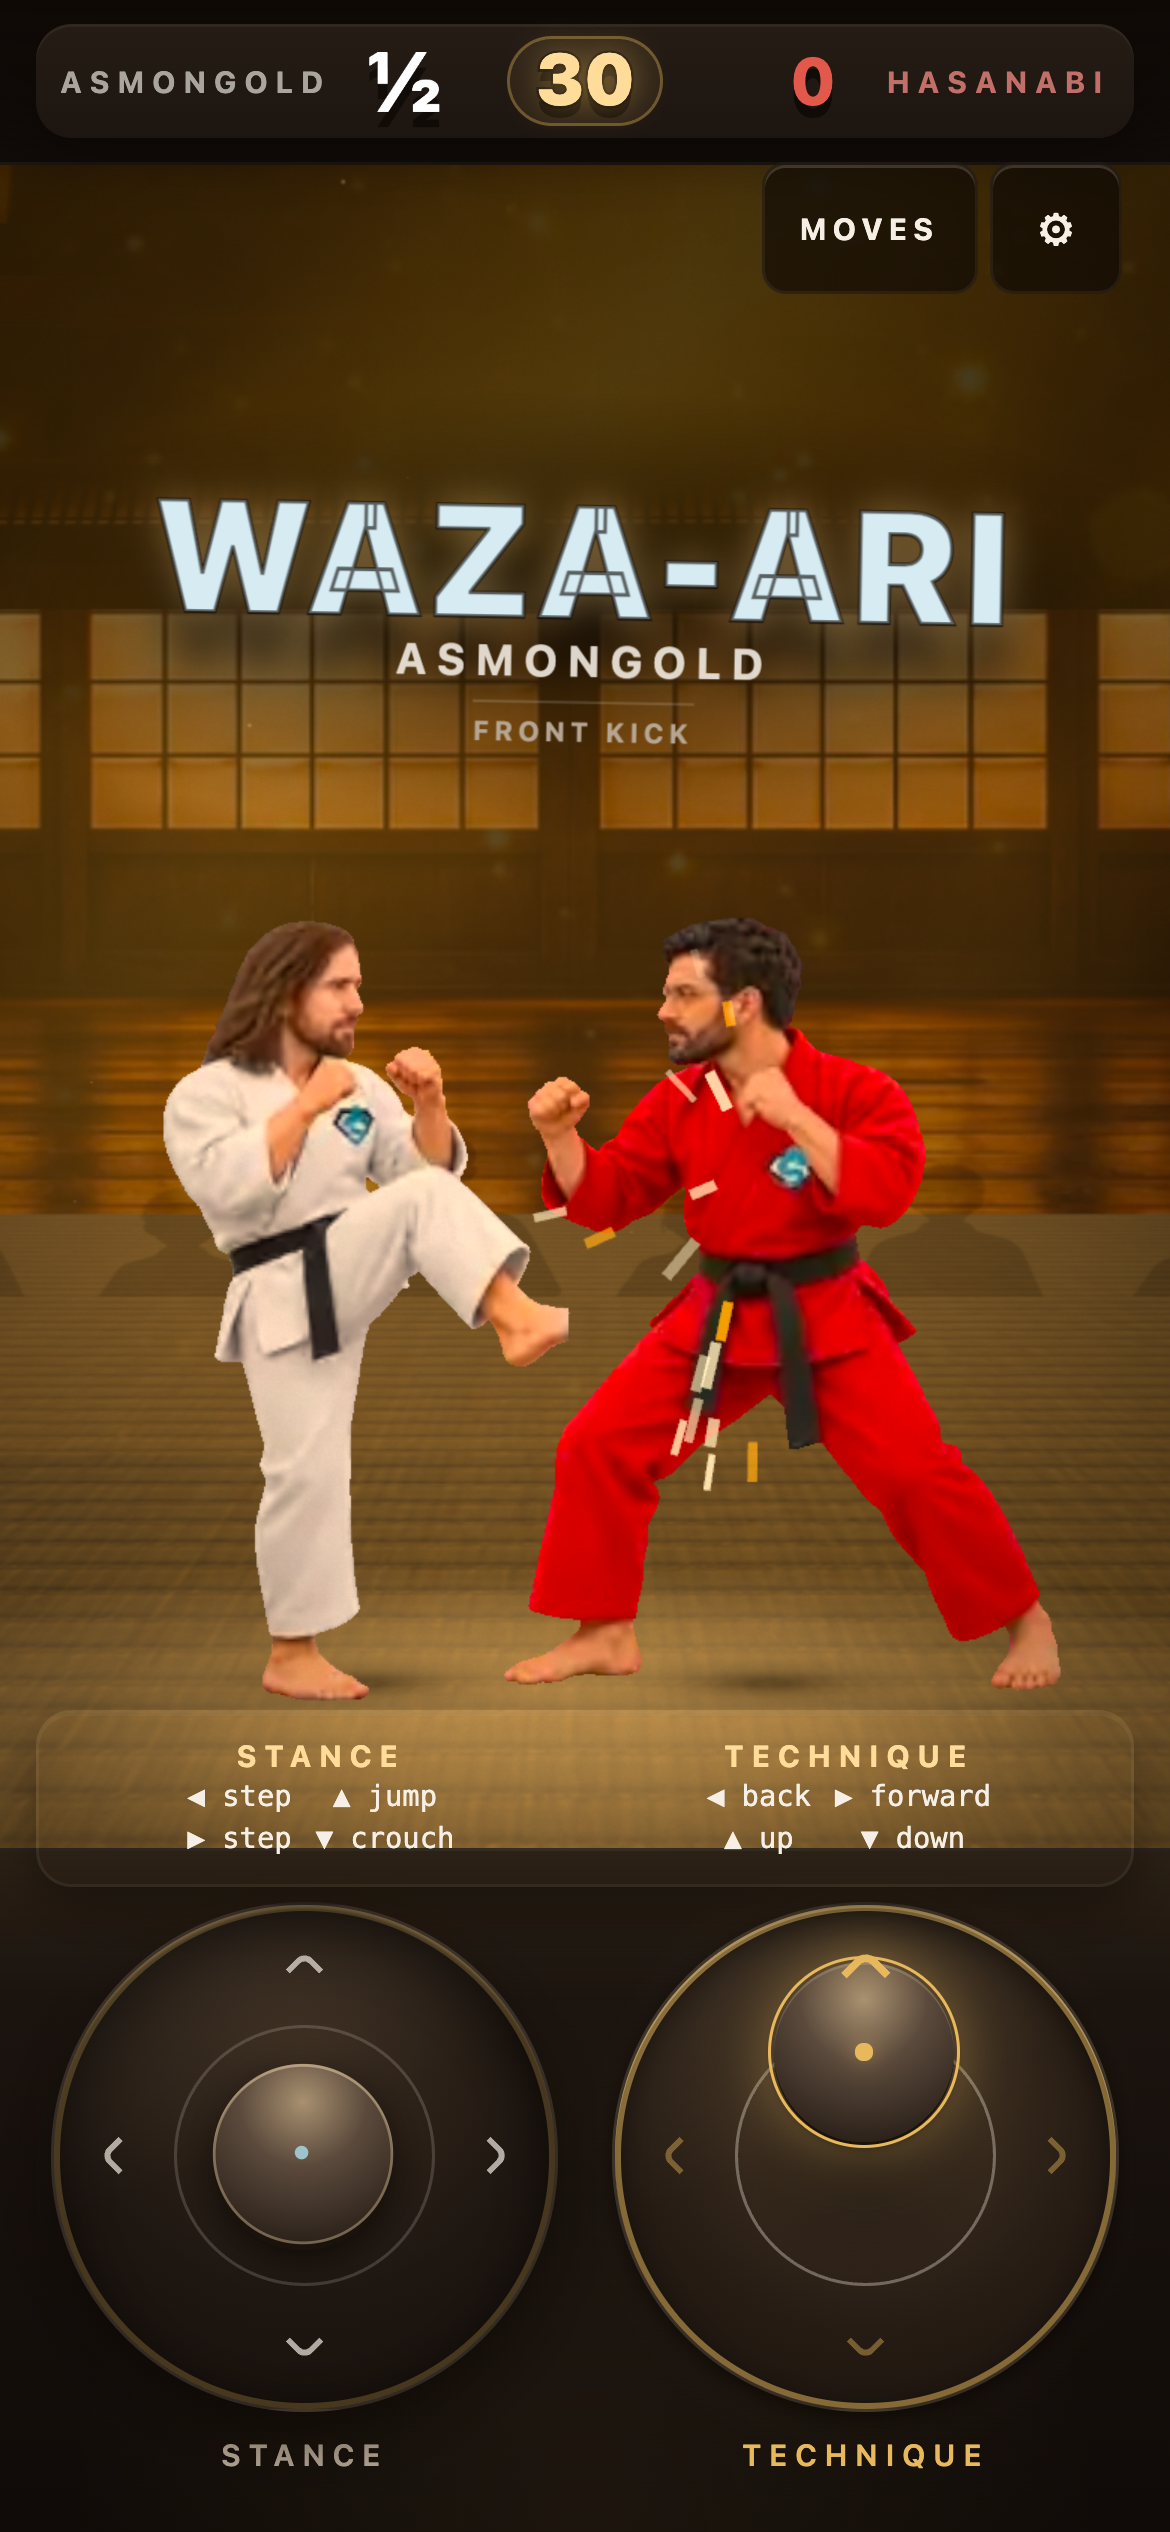
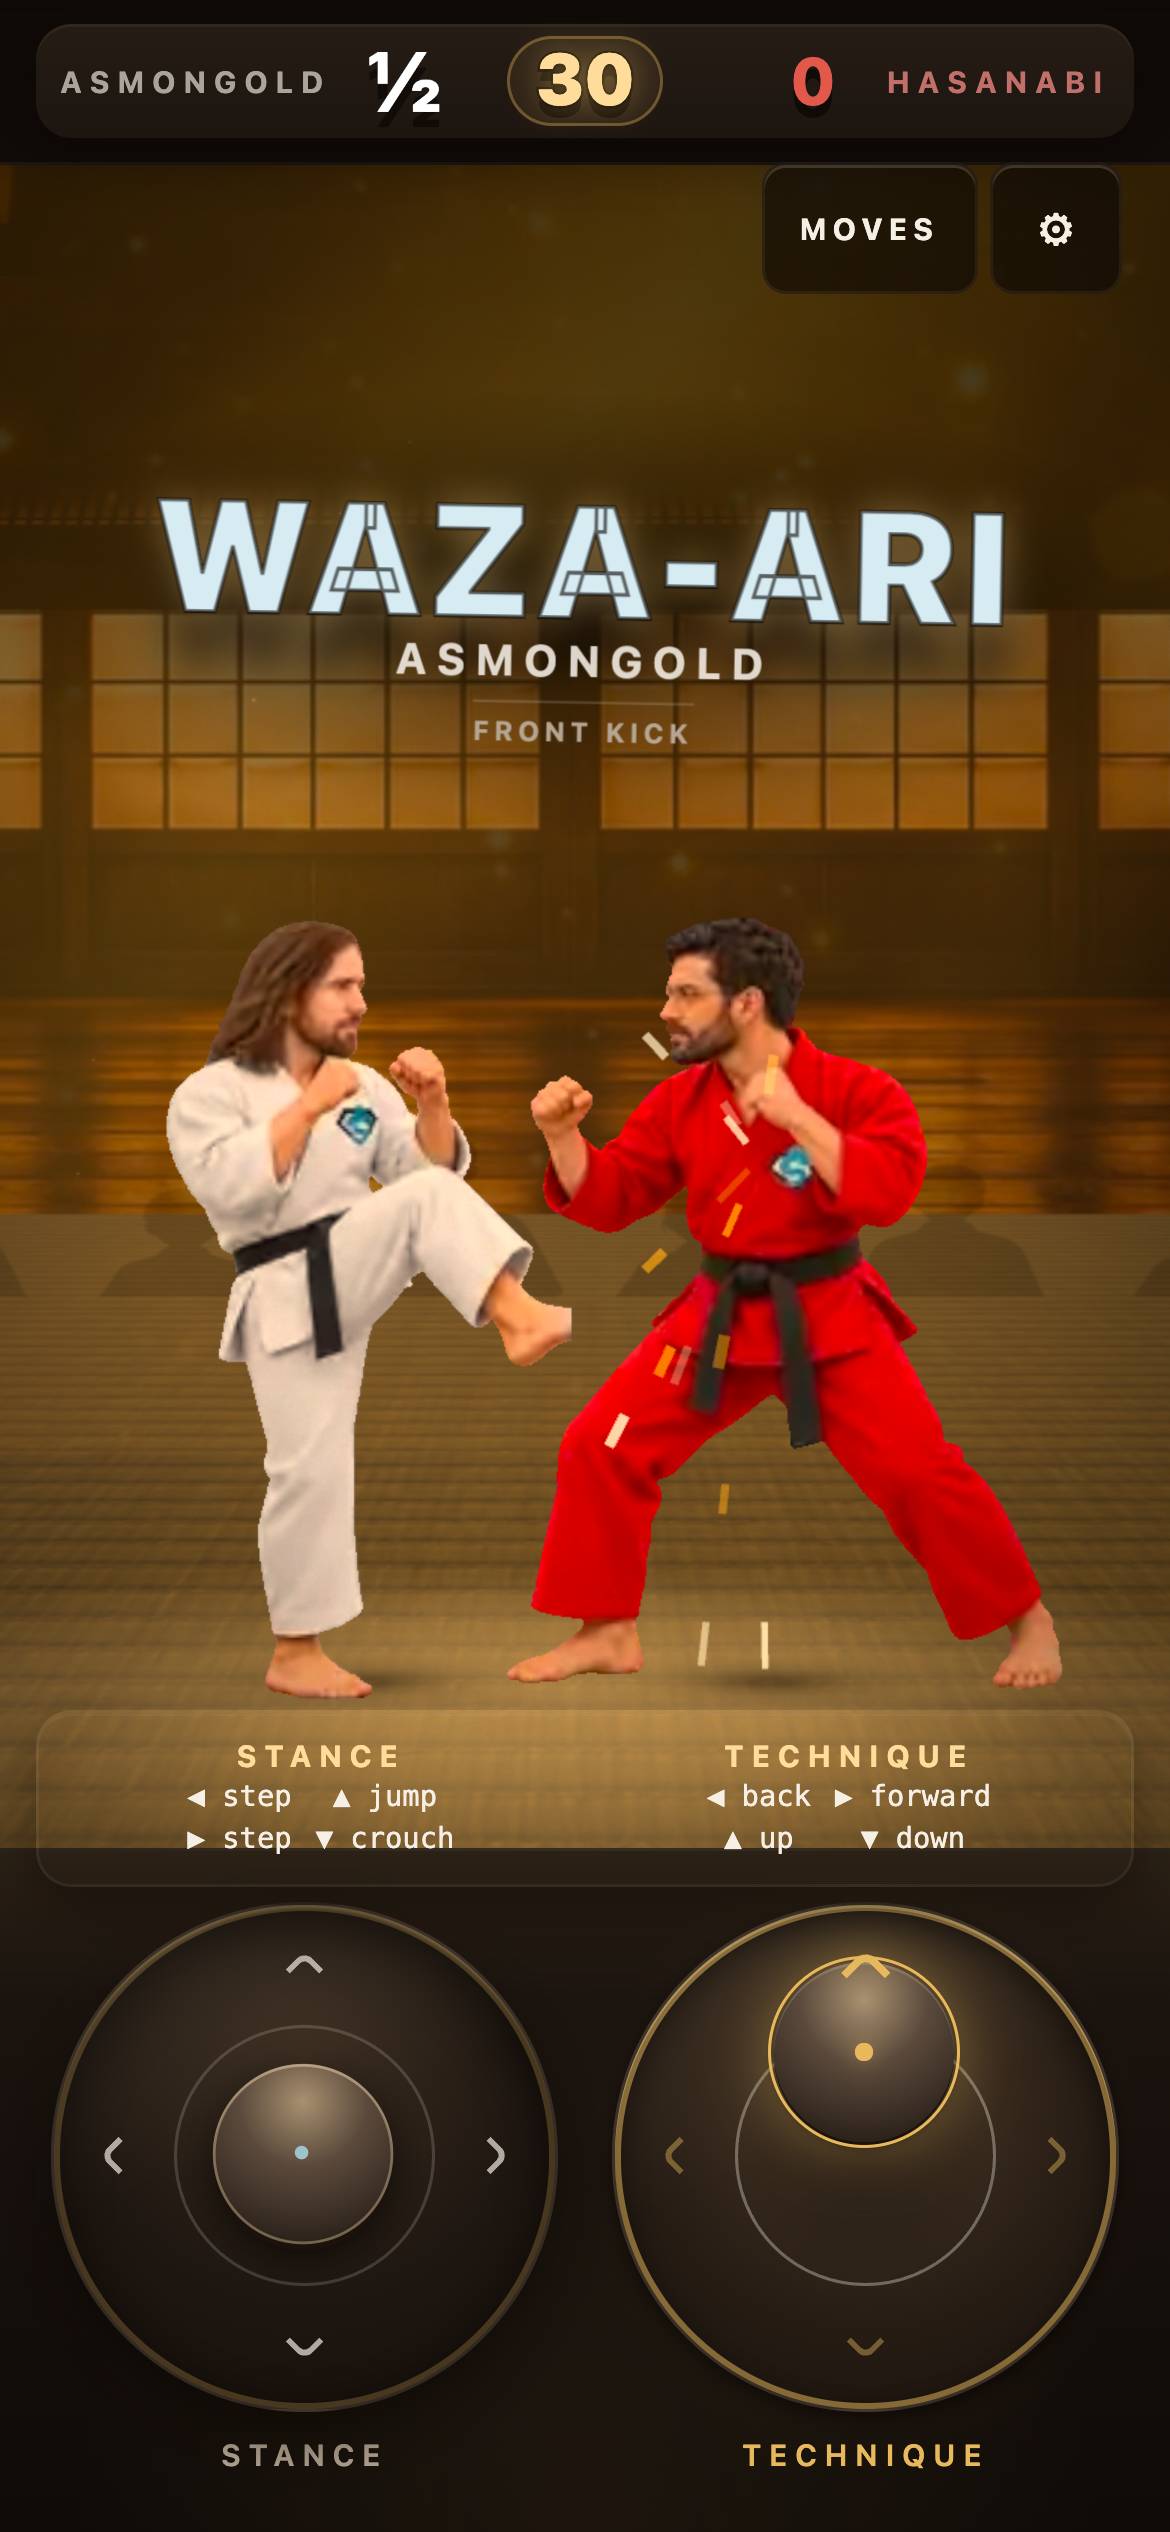
fix(hud): the countdown was a bordered pill inside a button, so it looked like a second button
qwen3.5-397b: "countdown timer looks like a clickable button."

Round 27 changed the label to "FIGHT IN 3" and that fixed the ambiguity four
rounds of reviewers were reporting. This is the *next* thing, and it is a fault
of the frame rather than the wording: the count was a small pill with a fill
and an inset border, sitting inside a gold button. A bordered pill nested in a
button reads as a second control inside the first, and the player is being
invited to press something that does nothing.

The wording stays, because it was the thing that was wrong. The container goes
— no fill, no border, no radius — and the count is now quiet text set apart by
space and weight. One control, one surface.

Refused, with measurements taken off the live DOM:

- `low-contrast-score-hud: "increase contrast and stroke clarity on the
  opponent red score readout"` (gemini-3.6-flash),
  `low-contrast-top-hud-text` (gpt-5.1) — the scoreline measures, against its
  own plate: Asmongold 17.66:1, the round clock 15.05:1, **HasanAbi's red
  5.44:1**, and the two fighter names 8.07:1 and 5.43:1. The red is the lowest
  of the five and still clears the 4.5:1 floor for *normal* text, at a size
  that qualifies as large. There is nothing to increase.
- `cyan-logo-palette-mismatch: "recolor the cyan diamond emblem to match the
  warm tungsten aesthetic"` (gemini-3.6-flash) — the ShoeMoney emblem is
  proprietary, carved out of this repo's MIT grant, and may not be recoloured.
[…]

diff --git a/apps/game/src/styles.css b/apps/game/src/styles.css
@@ -2385,22 +2385,19 @@ body.high-contrast .result-score {
    point total — which is exactly what a bare numeral on a gold pill next to a
    scoreboard was. */
 .result-count {
-  display: inline-grid;
-  place-items: center;
-  min-inline-size: 1.6em;
+  /* Not a badge, not a pill, no border and no fill.
+     Round 27 changed the text to "IN 3" and that fixed the ambiguity four
+     rounds of reviewers were reporting. qwen3.5-397b then reported the next
+     thing: "countdown timer looks like a clickable button" — which is right,
+     and is a fault of the *frame*, not the wording. A bordered pill sitting
+     inside a gold button reads as a second control nested in the first, and a
+     player is being invited to press something that does nothing. So the
+     wording stays and the container goes: it is now just quiet text, set apart
+     by space and colour only. */
   margin-inline-start: var(--space-2);
-  padding: 0 0.5em;
-  /* No circle. A bare numeral in a round badge beside a score is a point
-     total, which is what four rounds of reviewers read it as; the words
-     "in 3" carry the meaning instead, and the pill just holds them apart. */
-  border-radius: var(--radius-sm);
   letter-spacing: var(--track-wide);
   font-family: var(--font-sans);
-  border-radius: var(--radius-pill);
-  background: rgb(0 0 0 / 0.22);
-  box-shadow: inset 0 0 0 1px rgb(0 0 0 / 0.28);
-  font-family: var(--font-mono);
-  font-variant-numeric: tabular-nums;
+  font-weight: var(--weight-bold);
   font-size: 0.8em;
   line-height: 1.5;
 }
